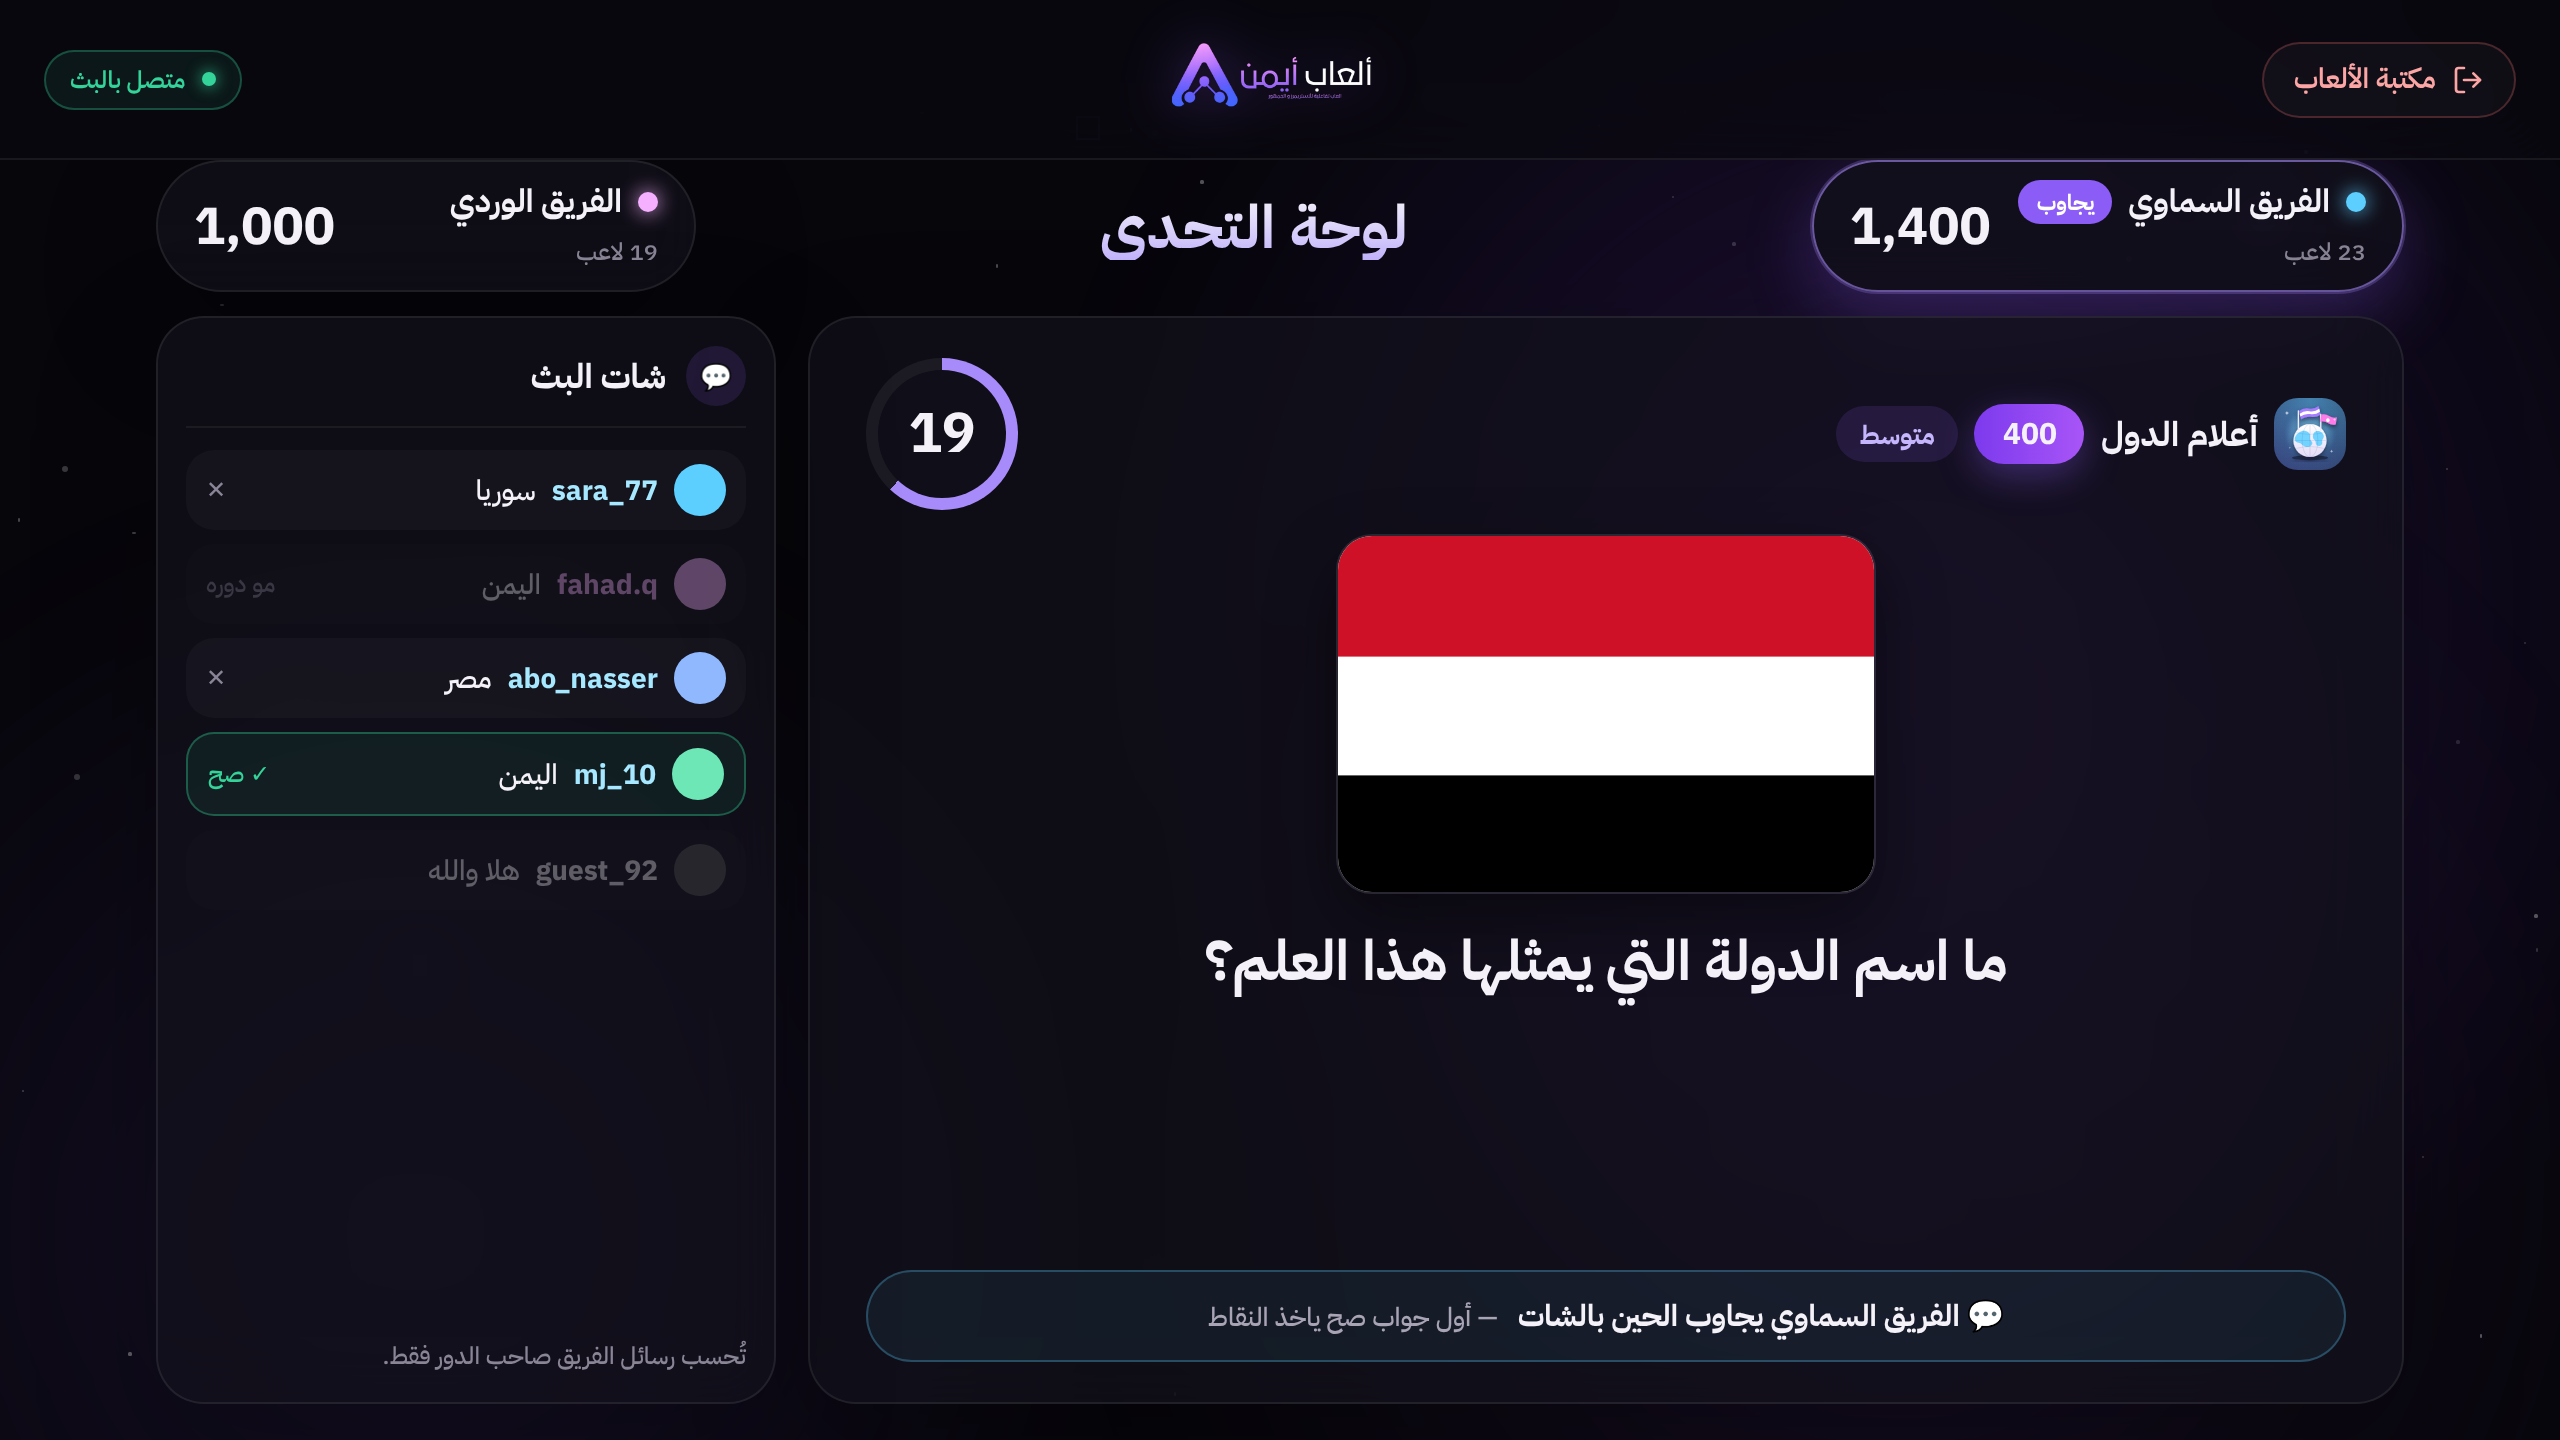
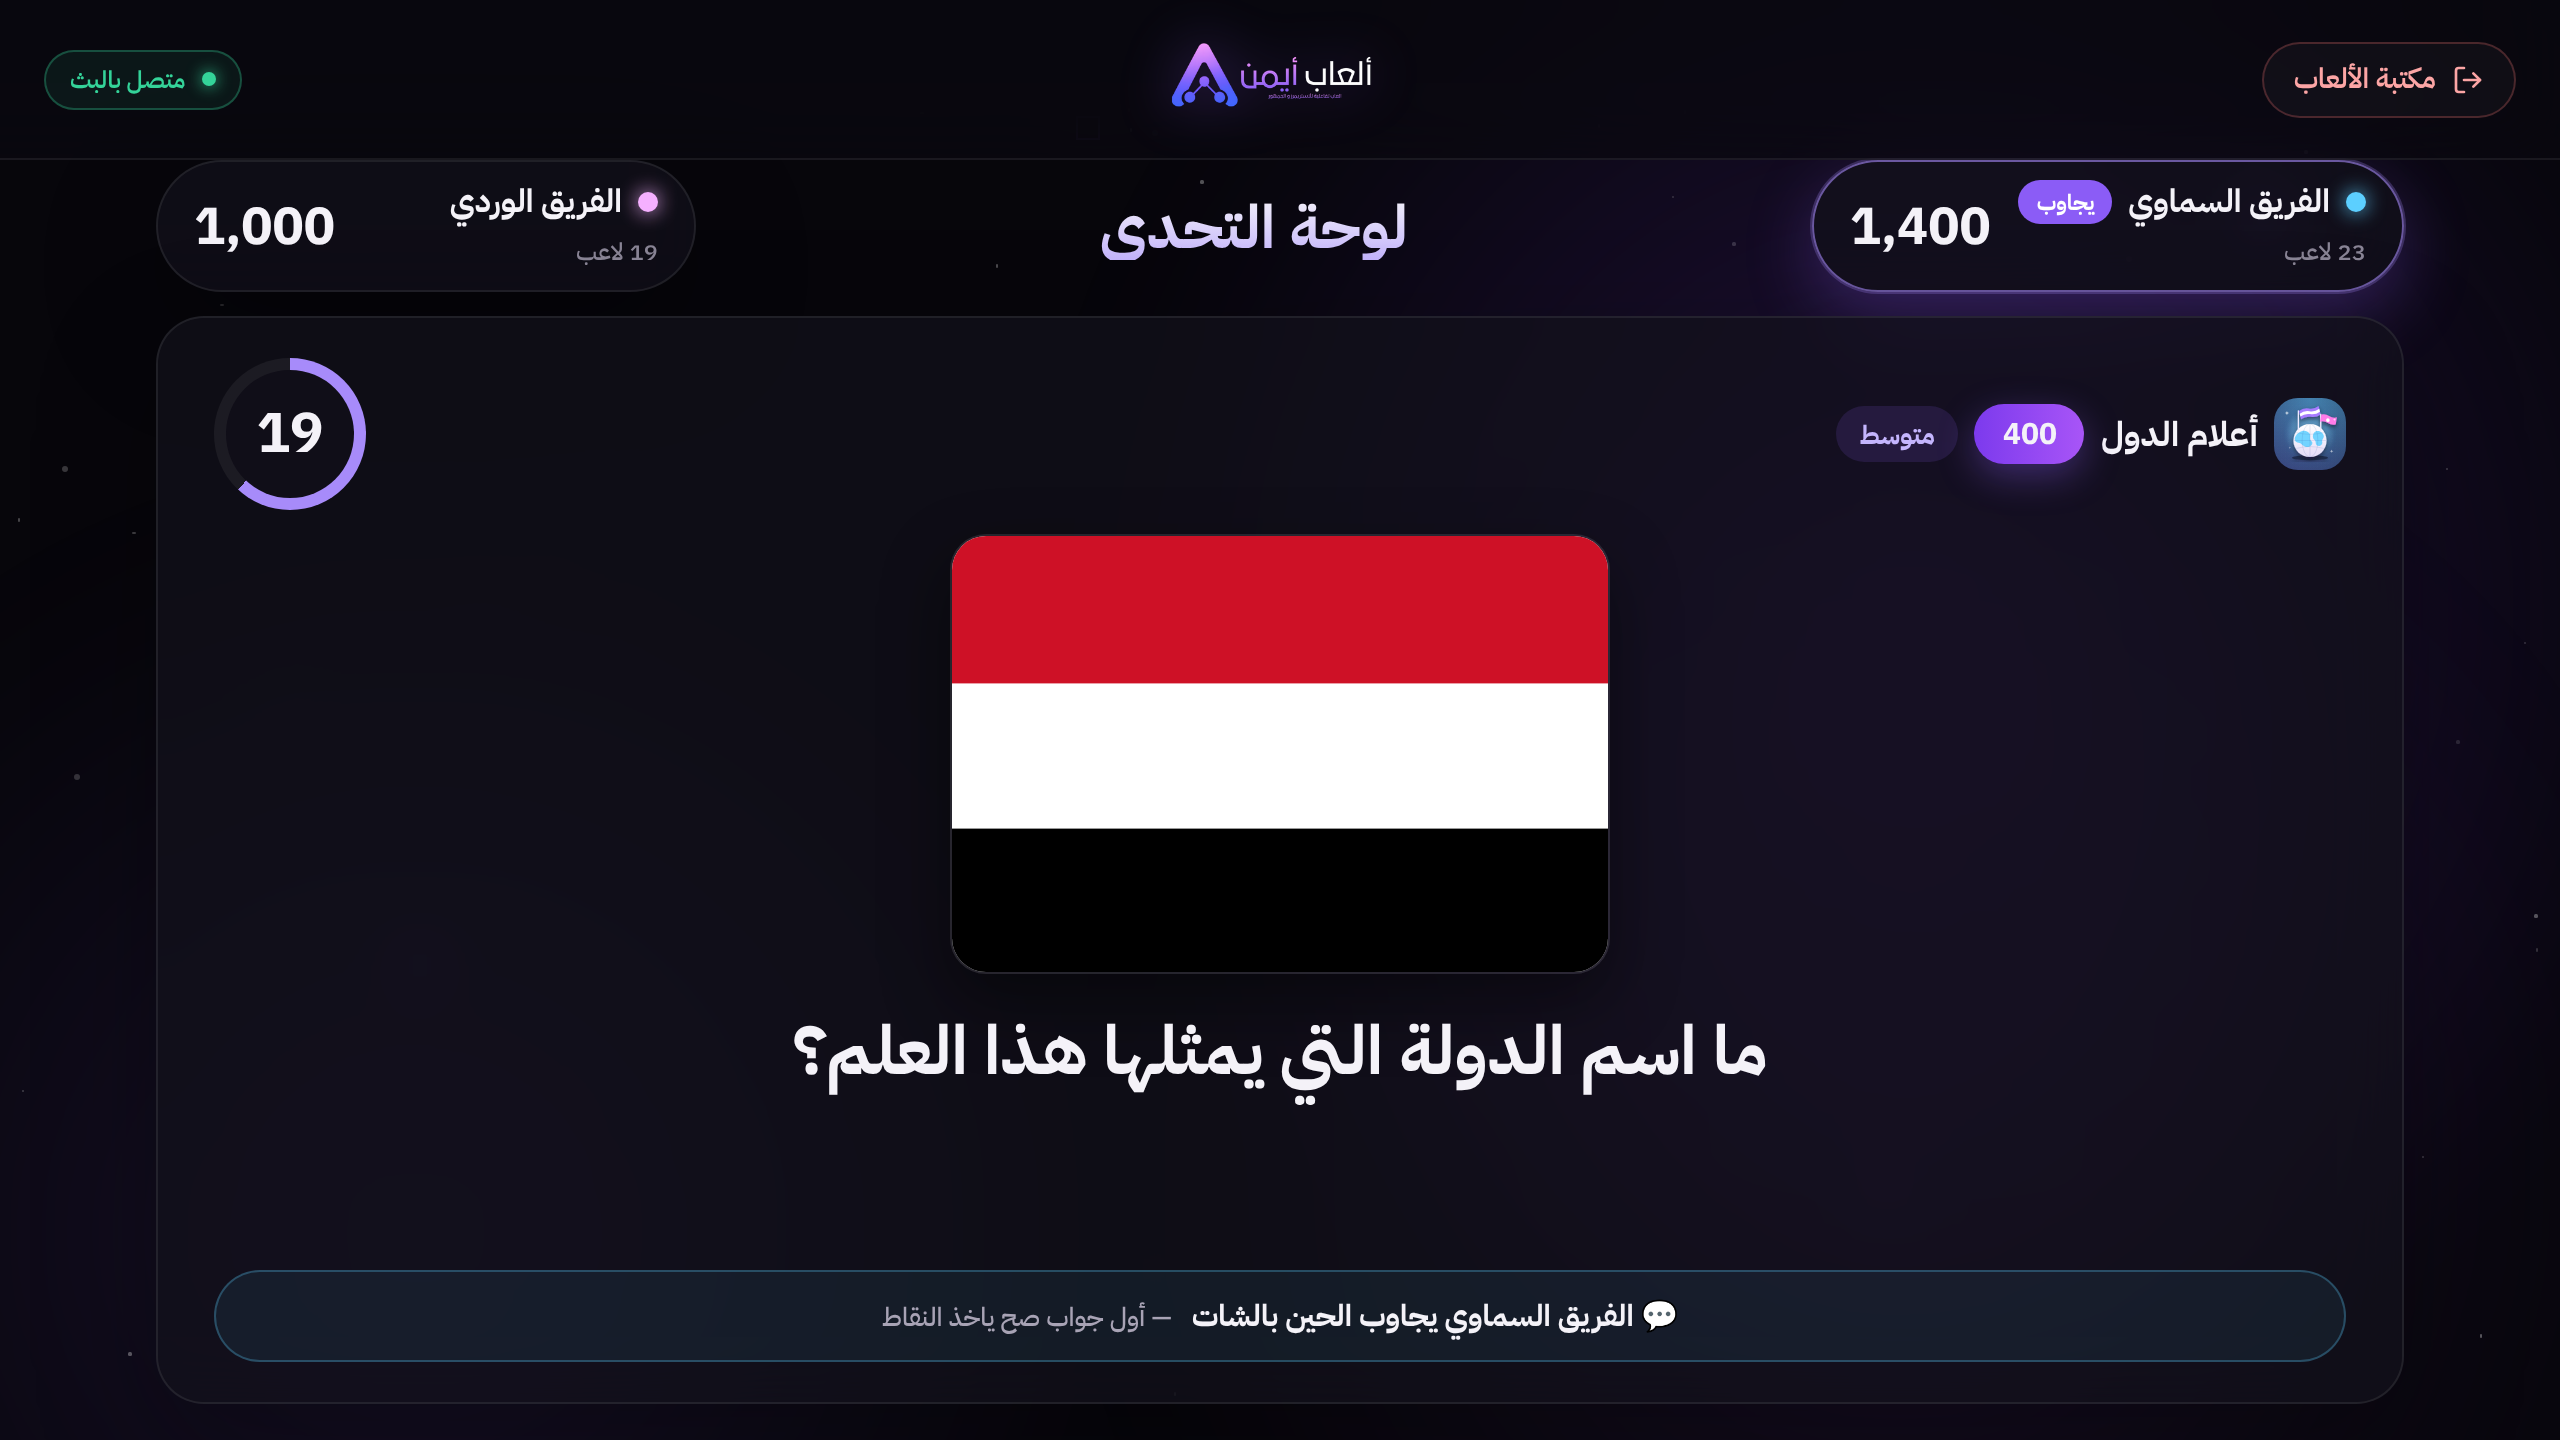
Remove live chat panel from quiz board question screen mockup
Claude-Session: https://claude.ai/code/session_017nUDNWXwpKqksHnjugR7G8

diff --git a/mockups/quiz-board/template.html b/mockups/quiz-board/template.html
@@ -85,7 +85,7 @@ main{position:fixed;top:80px;left:0;right:0;bottom:0;display:flex;flex-direction
 .tl .d{width:7px;height:7px;border-radius:50%}
 .tl.hov{border-color:rgba(167,139,250,.7);background:linear-gradient(160deg,rgba(139,92,246,.28),rgba(124,58,237,.1));box-shadow:0 12px 34px rgba(139,92,246,.35)}
 /* question */
-.qwrap{flex:1;min-height:0;display:grid;grid-template-columns:1fr 310px;gap:16px;padding-bottom:18px}
+.qwrap{flex:1;min-height:0;display:grid;grid-template-columns:1fr;gap:16px;padding-bottom:18px}
 .qbox{padding:20px 28px;display:flex;flex-direction:column;align-items:center;gap:12px}
 .qmeta{width:100%;display:flex;justify-content:space-between;align-items:center}
 .row{display:flex;gap:8px;align-items:center}
@@ -93,8 +93,8 @@ main{position:fixed;top:80px;left:0;right:0;bottom:0;display:flex;flex-direction
 .pts{height:30px;padding:0 14px;border-radius:999px;display:inline-flex;align-items:center;background:linear-gradient(90deg,#7c3aed,#a855f7);font:700 15px 'IBM Plex Sans Arabic';box-shadow:0 6px 18px rgba(139,92,246,.35)}
 .timer{width:76px;height:76px;border-radius:50%;display:grid;place-items:center;font:700 28px 'IBM Plex Sans Arabic';background:conic-gradient(#a78bfa 0 62%,rgba(255,255,255,.06) 62% 100%);position:relative}
 .timer::before{content:"";position:absolute;inset:6px;border-radius:50%;background:#100e18}.timer span{position:relative}
-.qimg{width:270px;height:180px;border-radius:18px;overflow:hidden;border:1px solid rgba(255,255,255,.1);box-shadow:0 14px 34px rgba(0,0,0,.45)}
-.qt{font:700 28px/1.6 'IBM Plex Sans Arabic';text-align:center}
+.qimg{width:330px;height:220px;border-radius:18px;overflow:hidden;border:1px solid rgba(255,255,255,.1);box-shadow:0 14px 34px rgba(0,0,0,.45)}
+.qt{font:700 34px/1.6 'IBM Plex Sans Arabic';text-align:center}
 .who{width:100%;margin-top:auto;display:flex;align-items:center;justify-content:center;gap:10px;border-radius:999px;padding:11px 18px;background:rgba(92,207,255,.07);border:1px solid rgba(92,207,255,.28);font:700 15px 'IBM Plex Sans Arabic'}
 .who small{font:500 13px 'IBM Plex Sans Arabic';color:#a8a3b5}
 .chat{padding:14px;display:flex;flex-direction:column;gap:7px}
@@ -153,18 +153,9 @@ main{position:fixed;top:80px;left:0;right:0;bottom:0;display:flex;flex-direction
  <div class="qwrap">
   <div class="panel qbox">
    <div class="qmeta"><div class="row"><div class="mini" id="mini"></div><b style="font-size:17px">أعلام الدول</b><span class="pts">400</span><span class="badge">متوسط</span></div><div class="timer"><span>19</span></div></div>
-   <div class="qimg"><svg viewBox="0 0 300 200" width="270" height="180"><rect width="300" height="200" fill="#fff"/><rect width="300" height="67" fill="#ce1126"/><rect y="133" width="300" height="67" fill="#000"/></svg></div>
+   <div class="qimg"><svg viewBox="0 0 300 200" width="330" height="220"><rect width="300" height="200" fill="#fff"/><rect width="300" height="67" fill="#ce1126"/><rect y="133" width="300" height="67" fill="#000"/></svg></div>
    <div class="qt">ما اسم الدولة التي يمثلها هذا العلم؟</div>
    <div class="who">💬 الفريق السماوي يجاوب الحين بالشات <small>— أول جواب صح ياخذ النقاط</small></div>
-  </div>
-  <div class="panel chat">
-   <div class="sh"><span class="num">💬</span><b>شات البث</b></div>
-   <div class="msg a"><div class="av" style="background:#5ccfff"></div><span class="u">sara_77</span> سوريا<span class="t">✕</span></div>
-   <div class="msg b ign"><div class="av" style="background:#f5b0ff"></div><span class="u">fahad.q</span> اليمن<span class="t">مو دوره</span></div>
-   <div class="msg a"><div class="av" style="background:#8fb8ff"></div><span class="u">abo_nasser</span> مصر<span class="t">✕</span></div>
-   <div class="msg a ok"><div class="av" style="background:#6ee7b7"></div><span class="u">mj_10</span> اليمن<span class="t">✓ صح</span></div>
-   <div class="msg ign"><div class="av" style="background:#555"></div><span class="u">guest_92</span> هلا والله</div>
-   <div class="note">تُحسب رسائل الفريق صاحب الدور فقط.</div>
   </div>
  </div>
 </section>
